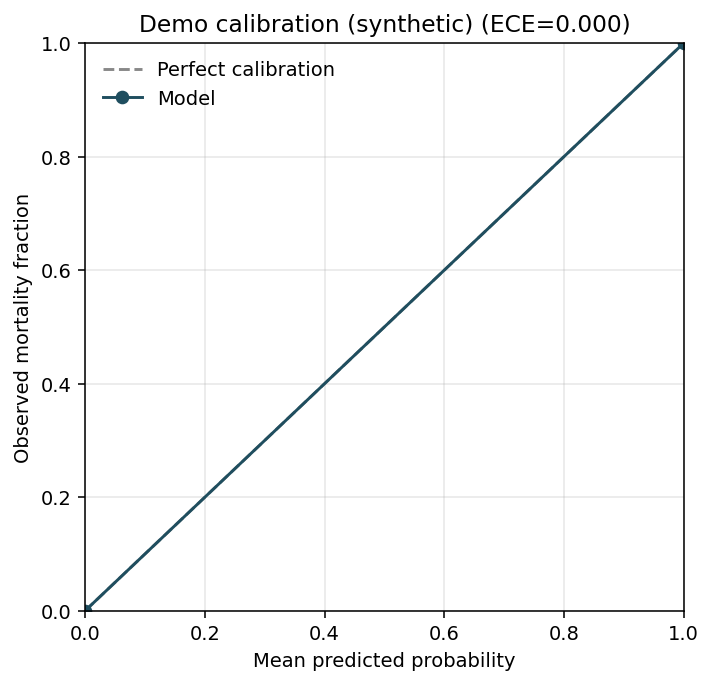
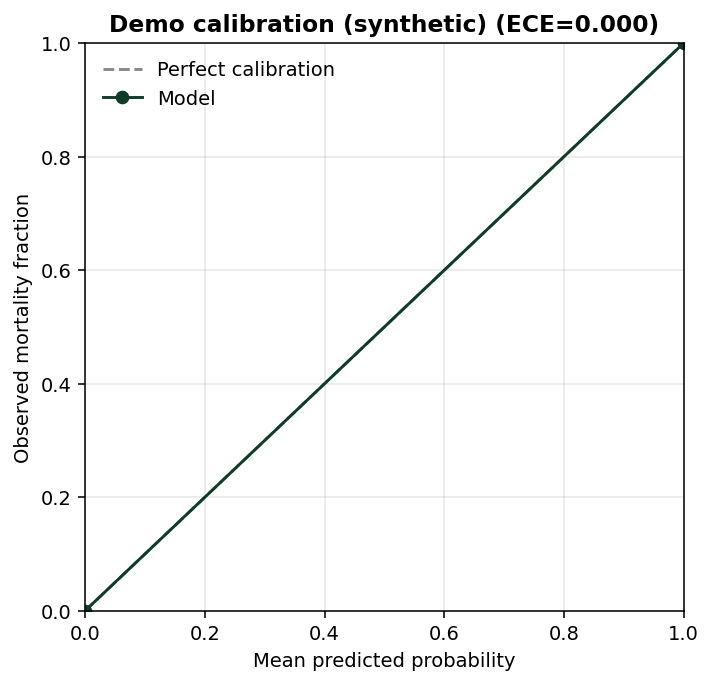
Commit pre-trained artifacts for cold-start demos
Streamlit Cloud resets the filesystem on every cold start, causing
_ensure_artifacts() to run train_main() and producing 2-5 min load
times. Pre-built artifacts are now committed to the repo so the app
loads them directly. _ensure_artifacts() now raises immediately if
files are missing rather than silently training at runtime.

diff --git a/app.py b/app.py
@@ -70,22 +70,23 @@ st.set_page_config(
 
 
 def _ensure_artifacts() -> None:
-    """Create demo CSV and trained model artifacts if they are missing."""
-    try:
-        if not (SAMPLE_DIR / "demo_vitals_long.csv").exists():
-            save_demo_sample(SAMPLE_DIR)
-        if not MODEL_PATH.exists():
-            from scripts.train_baseline import main as train_main
-
-            train_main()
-    except (OSError, ValueError, ImportError) as exc:
-        logger.exception("Failed to prepare demo artifacts")
+    """
+    Verify pre-built demo artifacts exist on disk.
+    Never trains at runtime — artifacts must be committed
+    to the repository so Streamlit Cloud can load them
+    directly on cold start.
+    """
+    missing: list[str] = []
+    if not (SAMPLE_DIR / "demo_vitals_long.csv").exists():
+        missing.append(str(SAMPLE_DIR / "demo_vitals_long.csv"))
+    if not MODEL_PATH.exists():
+        missing.append(str(MODEL_PATH))
+    if missing:
         raise RuntimeError(
-            "Could not prepare demo data or model. "
-            "Run `python -m scripts.build_demo_data` then "
-            "`python -m scripts.train_baseline`."
-        ) from exc
-
+            f"Demo artifacts missing from disk: {missing}. "
+            "Run scripts.build_demo_data then scripts.train_baseline "
+            "locally and commit all outputs before deploying."
+        )
 
 @st.cache_resource(show_spinner=False)
 def _load_bundle() -> DemoBundle:
